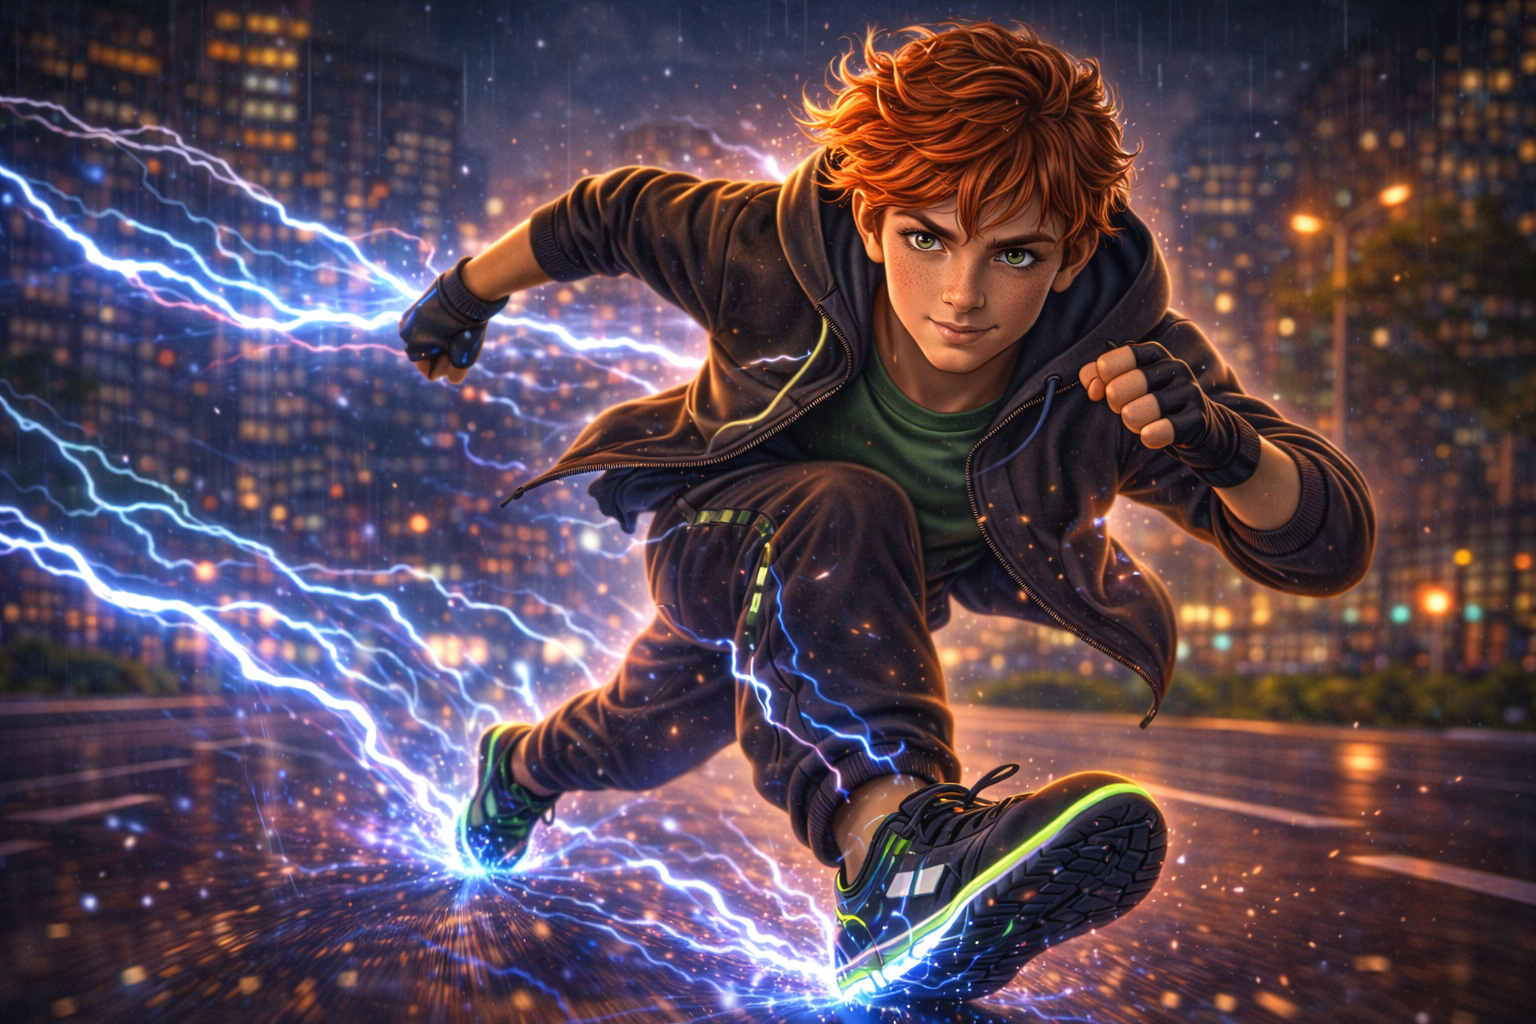
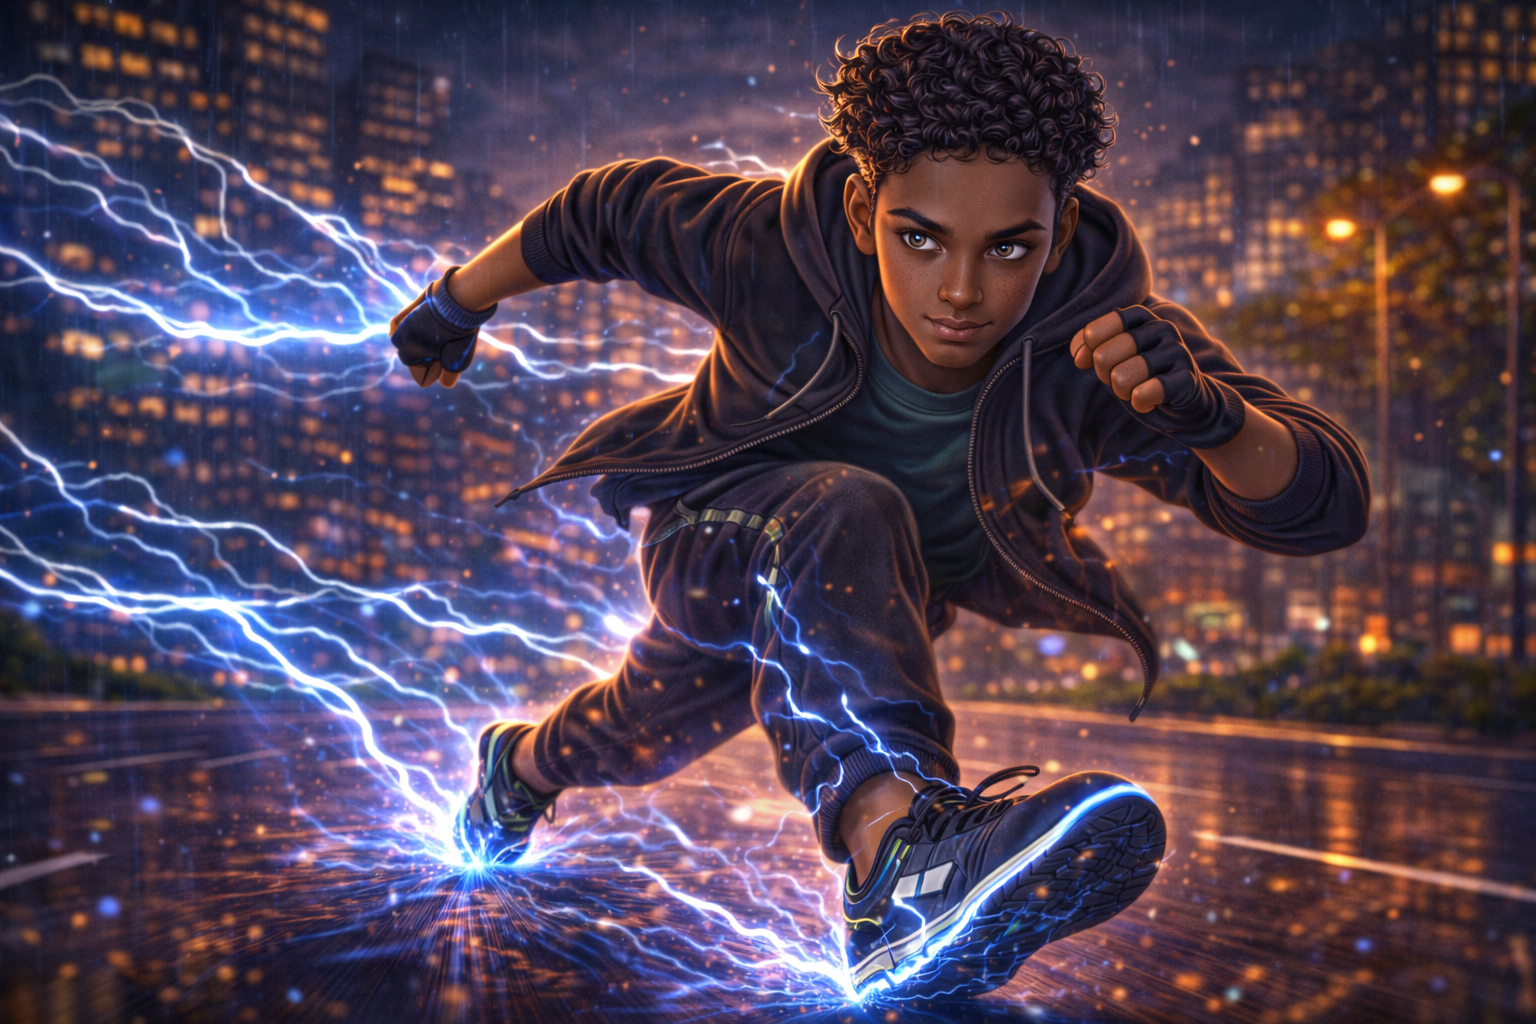
fix(review): close NEW-06 + NEW-07 — archetype lookup + adolescent story summary
NEW-06 (Adventurer):
- adventurer_character_sheet.dart: archetype lookup compared
  a.name.toLowerCase().replaceAll(' ', '_') against the stored display
  name ("The Lightning Runner") — slug never matched. Fixed to direct
  name equality so CLASS and ROLE stats now render correctly.

NEW-07 (Adolescent + Creator):
- magic_review_step.dart: Creator scenario fallback '—' → 'Your own story'
  so the pitch card is never left blank.
- magic_review_step.dart: Adolescent minimal review now derives
  scenarioDesc via ScenarioData.descriptionForAge and shows it as a
  small italic subtitle below the scenario title — gives users a real
  story summary before launching.

Also: adolescent archetype image update (lightning_runner_boy, quiz_whiz).

diff --git a/lib/screens/wizard_steps/magic_review_step.dart b/lib/screens/wizard_steps/magic_review_step.dart
@@ -1025,11 +1025,12 @@ class _MagicReviewStepState extends ConsumerState<MagicReviewStep> {
 
     final heroName =
         data.characterName.isNotEmpty ? data.characterName : 'Unnamed';
-    final scenarioLabel = data.selectedScenario != null
-        ? (ScenarioData.getById(data.selectedScenario!)
-                ?.titleForBand(band.band) ??
-            'Your Story')
-        : 'Your own adventure';
+    final scenarioCard = data.selectedScenario != null
+        ? ScenarioData.getById(data.selectedScenario!)
+        : null;
+    final scenarioLabel =
+        scenarioCard?.titleForBand(band.band) ?? (data.selectedScenario != null ? 'Your Story' : 'Your own adventure');
+    final scenarioDesc = scenarioCard?.descriptionForAge(data.characterAge);
     final companionLine = data.companionNames.isEmpty
         ? 'Solo'
         : data.companionNames.join(', ');
@@ -1102,6 +1103,17 @@ class _MagicReviewStepState extends ConsumerState<MagicReviewStep> {
                     fontWeight: FontWeight.w500,
                   ),
                 ),
+                if (scenarioDesc != null && scenarioDesc.isNotEmpty) ...[
+                  const SizedBox(height: 4),
+                  Text(
+                    scenarioDesc,
+                    style: GoogleFonts.sourceSans3(
+                      color: band.textOnDark.withValues(alpha: 0.45),
+                      fontSize: 13,
+                      fontStyle: FontStyle.italic,
+                    ),
+                  ),
+                ],
                 if (data.companionNames.isNotEmpty) ...[
                   const SizedBox(height: 4),
                   Text(
@@ -1209,7 +1221,7 @@ class _MagicReviewStepState extends ConsumerState<MagicReviewStep> {
         ? (ScenarioData.getById(data.selectedScenario!)
                 ?.titleForBand(band.band) ??
             'Your Story')
-        : '—';
+        : 'Your own story';
 
     if (_isGenerating) {
       return MagicalLoadingView(

diff --git a/lib/widgets/adventurer_character_sheet.dart b/lib/widgets/adventurer_character_sheet.dart
@@ -25,8 +25,7 @@ class AdventurerCharacterSheet extends StatelessWidget {
   Widget build(BuildContext context) {
     final archetype = wizardData.selectedArchetypeId != null
         ? CharacterArchetypes.all
-            .where((a) => a.name.toLowerCase().replaceAll(' ', '_') ==
-                wizardData.selectedArchetypeId)
+            .where((a) => a.name == wizardData.selectedArchetypeId)
             .firstOrNull
         : null;
 

diff --git a/TEAM_COORDINATION.md b/TEAM_COORDINATION.md
@@ -1584,8 +1584,8 @@ All scenarios clean: sync fast path 24/24 @ p95=207ms, concurrency 1→32 flat a
 | NEW-03 | `_HeroFallbackIdentity` column (icon 42px + gap 8 + text 18) overflowed 48×48 container | Creator, Adolescent, Adult | Medium | ✅ Fixed |
 | NEW-04 | Archetype card names truncate in Sprout/Explorer grid (`maxLines: 1`) | Sprout, Explorer | Medium | ✅ Fixed |
 | NEW-05 | Story style step has no default selection for younger bands | Sprout, Explorer | Medium | Not a bug — code defaults to `'tales'` (Story Quest); visual state on web runner may differ from device |
-| NEW-06 | Archetype class shows "—" on Adventurer review when archetype skipped | Adventurer | Low | Deferred |
-| NEW-07 | Adolescent review shows only name + "—", no story summary | Adolescent | Low | Deferred |
+| NEW-06 | Archetype class shows "—" on Adventurer review when archetype skipped | Adventurer | Low | ✅ Fixed |
+| NEW-07 | Adolescent review shows only name + "—", no story summary | Adolescent | Low | ✅ Fixed |
 | NEW-08 | Adult "Begin" button gold/olive colour may read as disabled | Adult | Low | ✅ Fixed |
 
 ### Fix Details
@@ -1601,6 +1601,13 @@ All scenarios clean: sync fast path 24/24 @ p95=207ms, concurrency 1→32 flat a
 
 **NEW-04** — `lib/screens/wizard_steps/hero_creator_step.dart:_buildArchetypeCards`
 - Changed `maxLines: 1` → `maxLines: 2` on the name Text inside the bottom pill overlay; names like "The Animal Whisperer" now wrap to a second line instead of truncating with `…`.
+
+**NEW-06** — `lib/widgets/adventurer_character_sheet.dart`
+- Archetype lookup was comparing `a.name.toLowerCase().replaceAll(' ', '_')` against `selectedArchetypeId` which is stored as the display name (e.g., `"The Lightning Runner"`). The slug transform never matched. Fixed to `a.name == wizardData.selectedArchetypeId` so CLASS and ROLE stats now appear correctly.
+
+**NEW-07** — `lib/screens/wizard_steps/magic_review_step.dart`
+- Creator band: scenario fallback changed from `'—'` to `'Your own story'` so review is never blank.
+- Adolescent band: `scenarioDesc` (from `ScenarioData.descriptionForAge`) now shown as a small italic subtitle below the scenario title, giving users a real story summary before they launch.
 
 **NEW-08** — `lib/screens/wizard_steps/magic_review_step.dart` (Adult CTA button)
 - `foregroundColor` switched to `Color(0xFF1A1A1A)` (dark text) for Adult band — amber+white was ~2.2:1 contrast; dark text meets 4.5:1 minimum.
@@ -1619,7 +1626,8 @@ All scenarios clean: sync fast path 24/24 @ p95=207ms, concurrency 1→32 flat a
 - [x] NEW-03: `_HeroFallbackIdentity` overflow fixed
 - [x] NEW-04: archetype name truncation fixed
 - [x] NEW-08: Adult "Begin" button contrast fixed (commit 25f8ef7)
-- [ ] NEW-06/07: deferred (low priority)
+- [x] NEW-06: Adventurer archetype lookup fixed — was comparing transformed slug against display name
+- [x] NEW-07: Adolescent review scenario description added; Creator fallback '—' → 'Your own story'
 
 ---
 
